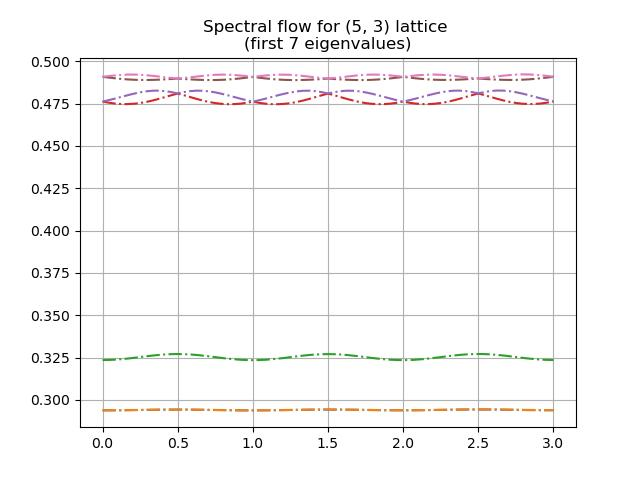
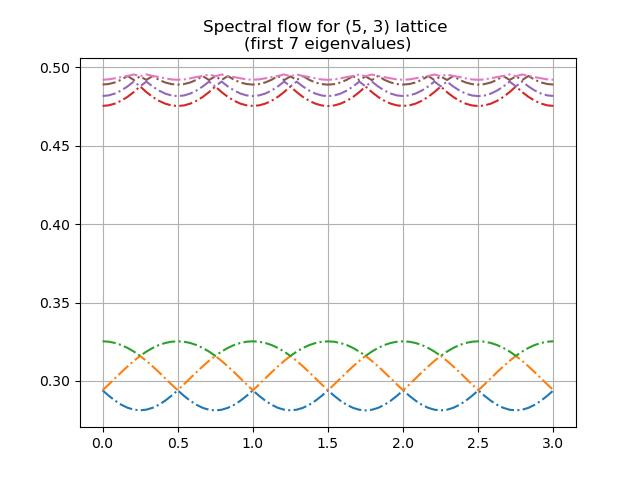
.

diff --git a/build_matrix.py b/build_matrix.py
@@ -92,7 +92,7 @@ if __name__ == "__main__":
     if build_H:
         print("Building H")
         if not (phi_y is None):
-            non_interacting_H = build_non_interacting_H(Nx, Ny, n=n,phase_shift_x= 0.25 * 2 * np.pi ,phase_shift_y= 2 * np.pi * phi_y, multi_process=multi_process,max_workers=max_workers,multiprocess_func=multiprocess_func)
+            non_interacting_H = build_non_interacting_H(Nx, Ny, n=n,phase_shift_y= 0.25 * 2 * np.pi ,phase_shift_x= 2 * np.pi * phi_y, multi_process=multi_process,max_workers=max_workers,multiprocess_func=multiprocess_func)
             os.makedirs(save_path, exist_ok=True)
             print("Saving H")
             sparse.save_npz(save_path + str(f'/H_Nx-{Nx}_Ny-{Ny}_{args.name}.npz'), non_interacting_H)
